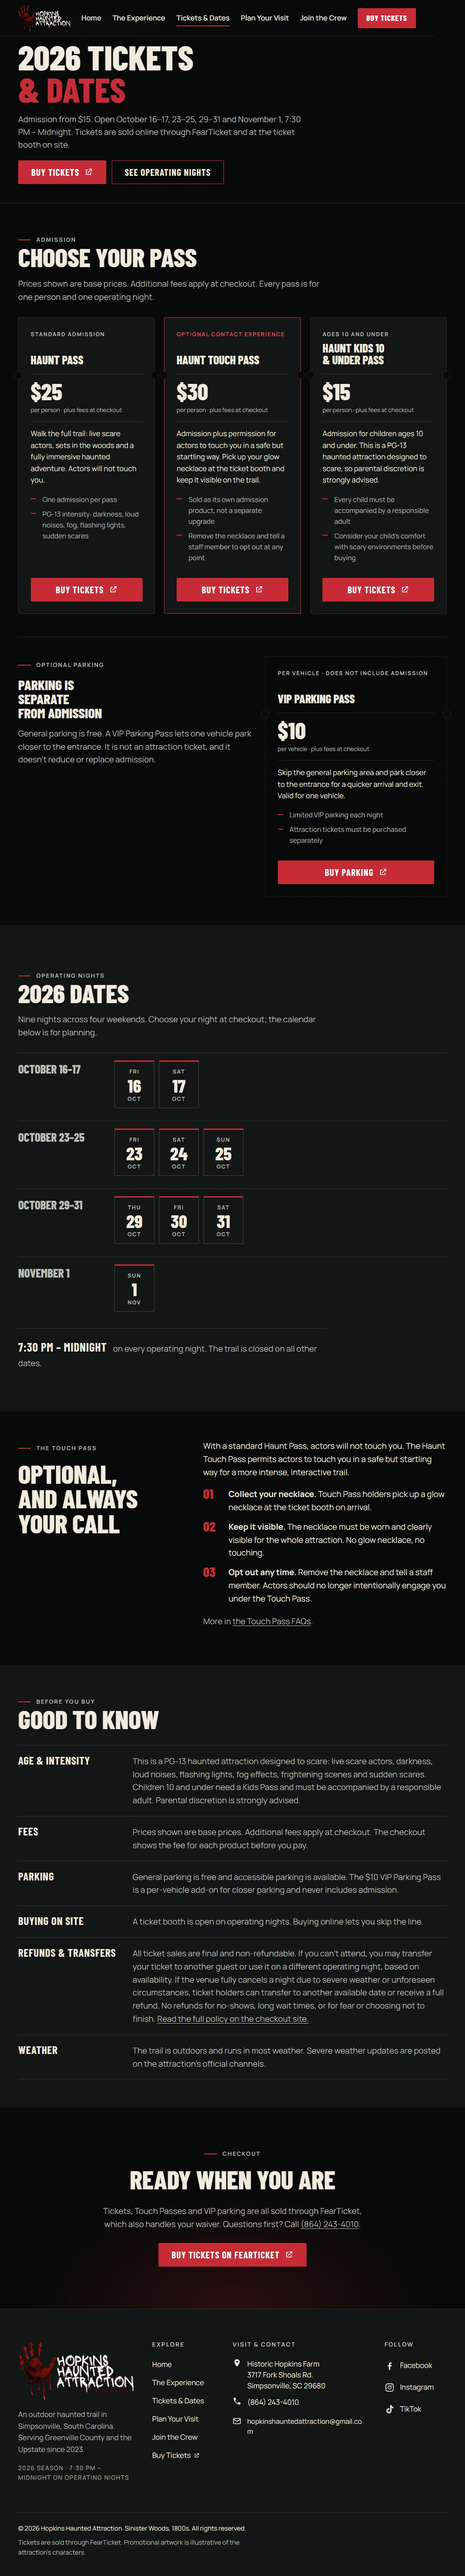
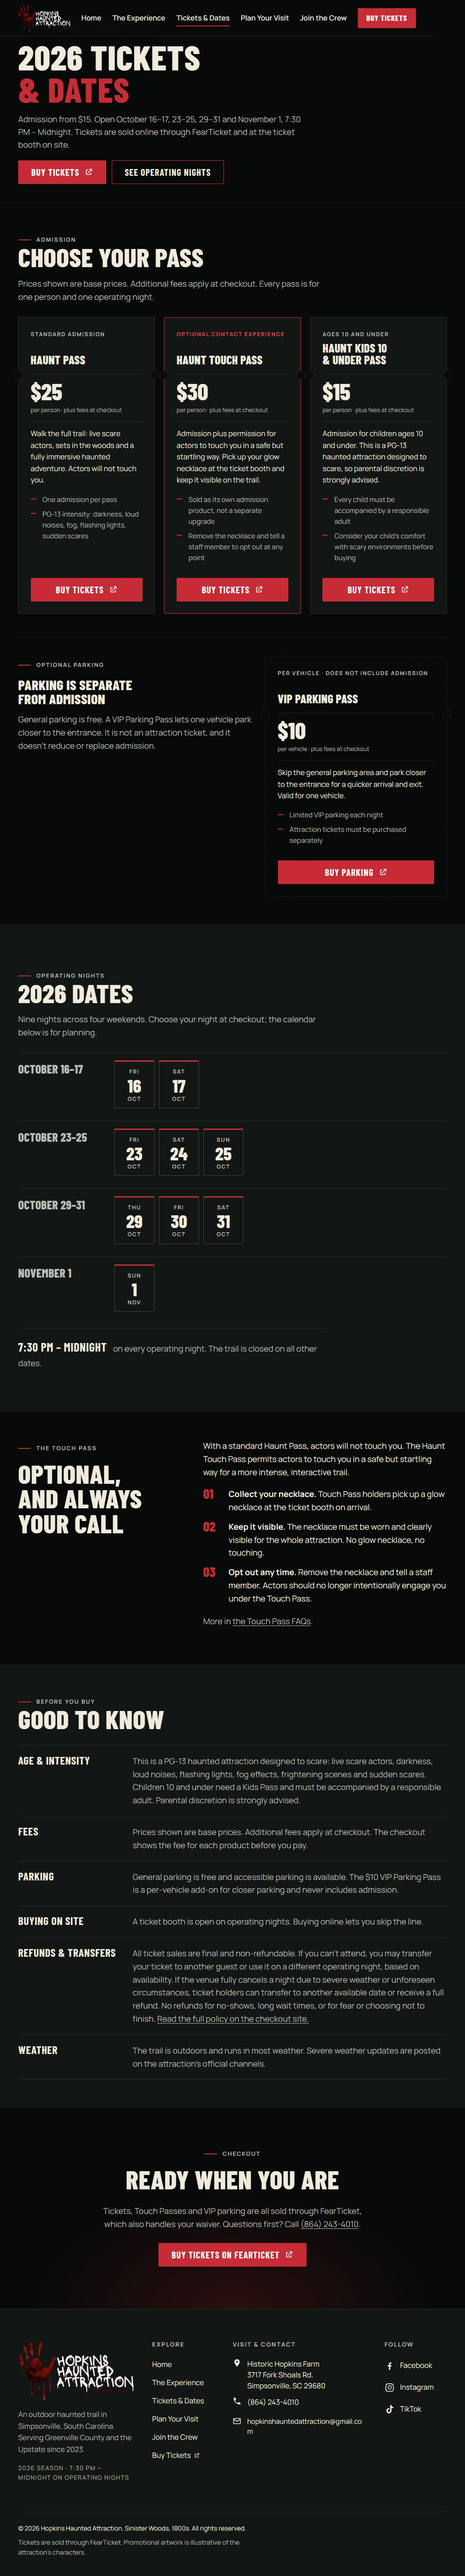
Widen headline measure across pages
Remove forced line breaks, relax heading max-widths and open display
tracking slightly so headlines use more horizontal space.

diff --git a/src/styles/global.css b/src/styles/global.css
@@ -147,7 +147,7 @@ p {
   font-family: var(--font-display);
   font-weight: 800;
   line-height: 0.95;
-  letter-spacing: -0.005em;
+  letter-spacing: 0.012em;
   text-transform: uppercase;
   margin: 0 0 0.5em;
   text-wrap: balance;
